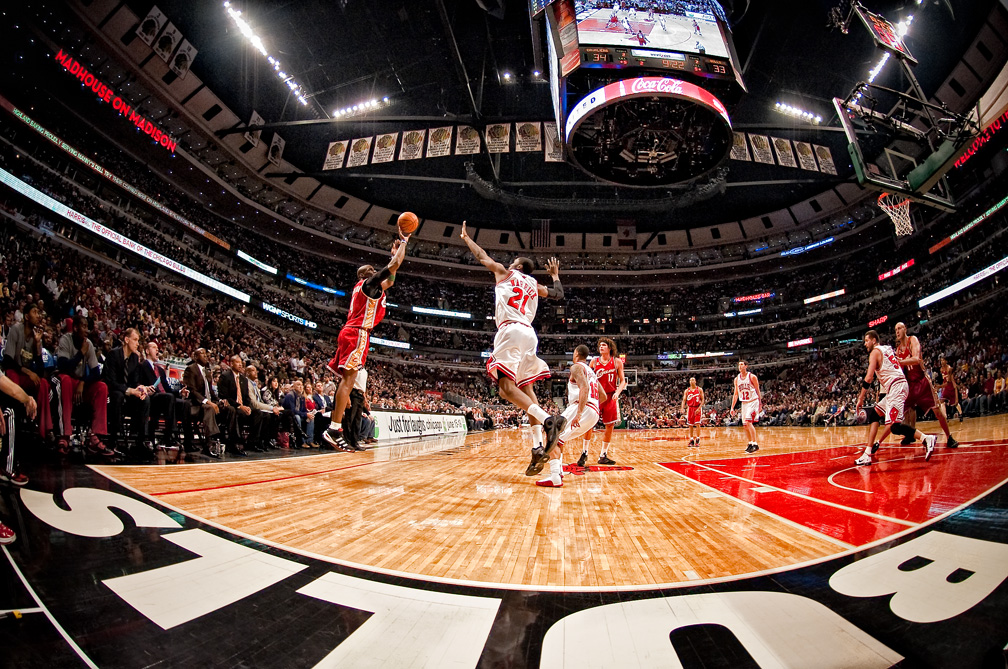
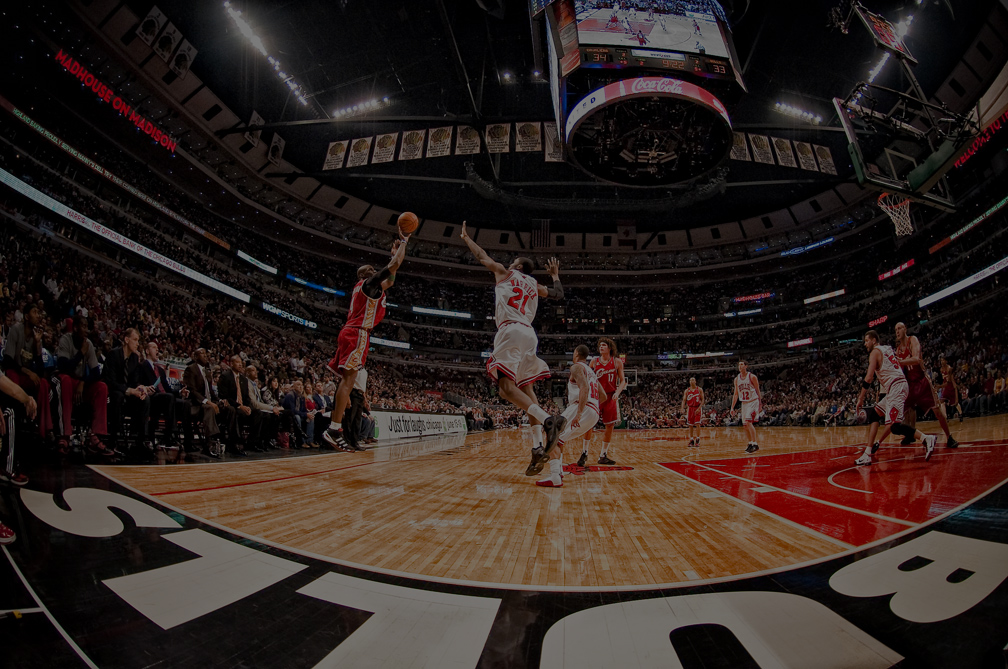
abis photoshop gambar

diff --git a/lab_2/templates/index_lab2.html b/lab_2/templates/index_lab2.html
@@ -37,7 +37,7 @@ body, html {
 </style>
 <div class="img">
   <div class="text">
-    <h1 style="font-size:50px">Hello, this is {{ name }}.</h1>
+    <h1 style="font-size:50px; font-family:Trebuchet MS">Hello, this is {{ name }}.</h1>
     <p> {{ content }}.</p>
   </div>
 </div>
